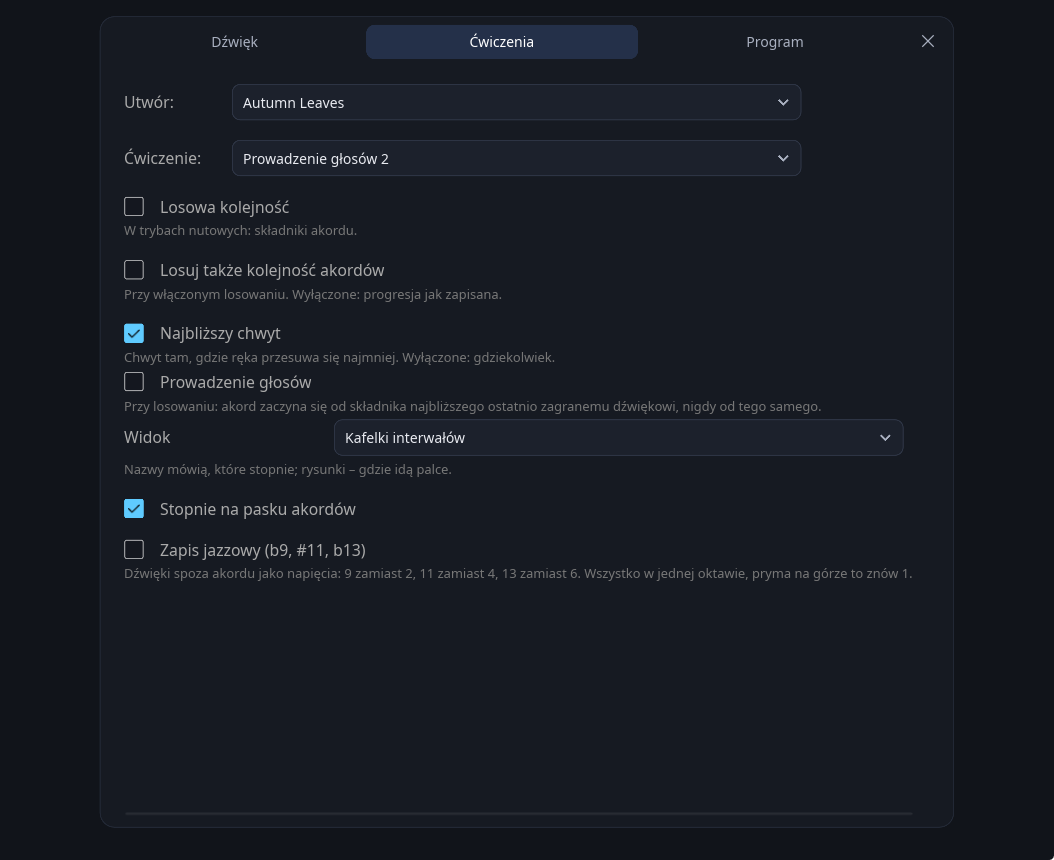
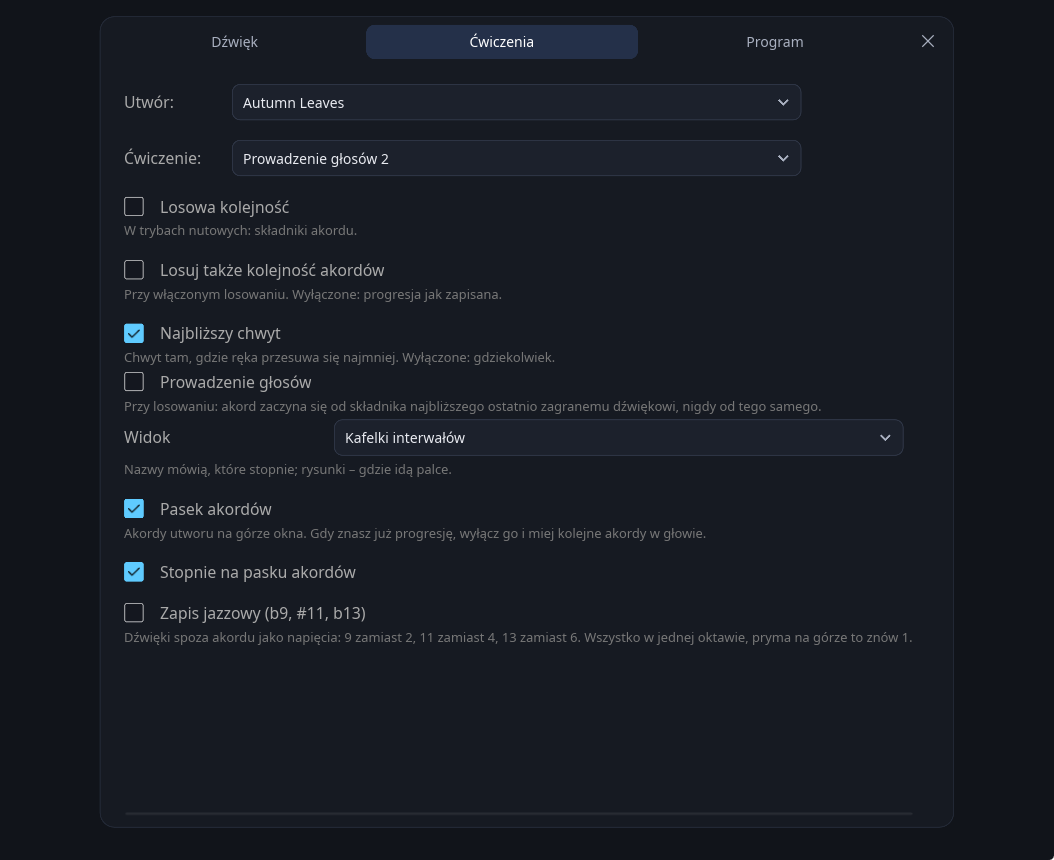
A switch for the chord strip, and a guide to playing without it
- the strip can go once a progression is known
- Practising intervals: thinking one and two chords ahead, on All the Things
- settings screenshots with the new row

diff --git a/src/main.rs b/src/main.rs
@@ -190,6 +190,7 @@ struct SettingsSnapshot {
     audio_channel: i32,
     jazz_notation: bool,
     chord_degrees: bool,
+    chord_strip: bool,
     formula_exercise: i32,
     formula_placement: i32,
     formula_notes: i32,
@@ -246,6 +247,7 @@ impl SettingsSnapshot {
             audio_channel: ui.get_audio_channel_index(),
             jazz_notation: ui.get_jazz_notation(),
             chord_degrees: ui.get_chord_degrees(),
+            chord_strip: ui.get_chord_strip(),
             formula_exercise: ui.get_formula_exercise(),
             formula_placement: ui.get_formula_placement(),
             formula_notes: ui.get_formula_notes(),
@@ -543,6 +545,7 @@ fn show_settings(ui: &AppWindow, app: &MyApp, cfg: &Settings, lang: Lang) {
     ui.set_show_shell_shapes(cfg.show_shell_shapes);
     ui.set_jazz_notation(cfg.jazz_notation);
     ui.set_chord_degrees(cfg.chord_degrees);
+    ui.set_chord_strip(cfg.chord_strip);
     ui.set_formula_exercise(cfg.formula_exercise as i32);
     ui.set_formula_placement(cfg.formula_placement as i32);
     ui.set_formula_notes(cfg.formula_notes as i32);
@@ -888,6 +891,8 @@ fn apply_language(ui: &AppWindow, lang: Lang, app: Option<&MyApp>) {
     g.set_jazz_names(t.jazz_names.into());
     g.set_jazz_names_hint(t.jazz_names_hint.into());
     g.set_chord_degrees(t.chord_degrees.into());
+    g.set_chord_strip(t.chord_strip.into());
+    g.set_chord_strip_hint(t.chord_strip_hint.into());
     g.set_chord_tones(t.chord_tones.into());
     g.set_fav_hint(t.fav_hint.into());
     g.set_fav_add(t.fav_add.into());

diff --git a/src/i18n.rs b/src/i18n.rs
@@ -219,6 +219,8 @@ pub struct Strings {
     pub jazz_names: &'static str,
     pub jazz_names_hint: &'static str,
     pub chord_degrees: &'static str,
+    pub chord_strip: &'static str,
+    pub chord_strip_hint: &'static str,
     pub chord_tones: &'static str,
     pub fav_name: &'static str,
     pub fav_pick: &'static str,
@@ -376,6 +378,8 @@ pub const EN: Strings = Strings {
     against_chord: "Relative to ",
     jazz_names: "Jazz notation (b9, #11, b13)",
     chord_degrees: "Degrees in the chord strip",
+    chord_strip: "Chord strip",
+    chord_strip_hint: "The chords of the tune at the top of the window. Once you know the progression, turn it off and keep the next chords in your head.",
     jazz_names_hint: "Notes outside the chord as tensions: 9 for 2, 11 for 4, 13 for 6. All within one octave, the root on top is 1 again.",
     chord_tones: "chord tones",
     fav_name: "name it",
@@ -535,6 +539,8 @@ pub const PL: Strings = Strings {
     against_chord: "Względem ",
     jazz_names: "Zapis jazzowy (b9, #11, b13)",
     chord_degrees: "Stopnie na pasku akordów",
+    chord_strip: "Pasek akordów",
+    chord_strip_hint: "Akordy utworu na górze okna. Gdy znasz już progresję, wyłącz go i miej kolejne akordy w głowie.",
     jazz_names_hint: "Dźwięki spoza akordu jako napięcia: 9 zamiast 2, 11 zamiast 4, 13 zamiast 6. Wszystko w jednej oktawie, pryma na górze to znów 1.",
     chord_tones: "dźwięków akordu",
     fav_name: "nazwij",

diff --git a/src/settings.rs b/src/settings.rs
@@ -96,6 +96,10 @@ pub struct Settings {
     /// strip.
     #[serde(default = "yes")]
     pub chord_degrees: bool,
+    /// The progression strip itself. Turned off once a progression is known:
+    /// the next chords are then kept in the head, which is the exercise.
+    #[serde(default = "yes")]
+    pub chord_strip: bool,
     /// Draw the shape thumbnails under the chord name in Chords mode. Was a
     /// UI property alone and reset to on at every launch.
     #[serde(default = "yes")]
@@ -358,6 +362,7 @@ impl Default for Settings {
             gates: HashMap::new(),
             jazz_notation: false,
             chord_degrees: true,
+            chord_strip: true,
             scale_repeat_root: false,
             scale_direction: 0,
             scale_from: 0,

diff --git a/src/controls.rs b/src/controls.rs
@@ -82,6 +82,7 @@ fn connect_switches(ui: &AppWindow, cfg: &Rc<RefCell<Settings>>) {
     ui.on_show_diagrams_changed(saving(cfg, |s, on| s.show_diagrams = on));
     ui.on_jazz_notation_changed(saving(cfg, |s, on| s.jazz_notation = on));
     ui.on_chord_degrees_changed(saving(cfg, |s, on| s.chord_degrees = on));
+    ui.on_chord_strip_changed(saving(cfg, |s, on| s.chord_strip = on));
     ui.on_formula_exercise_changed(saving(cfg, |s, v: i32| s.formula_exercise = v.clamp(0, 2) as u8));
     ui.on_formula_placement_changed(saving(cfg, |s, v: i32| s.formula_placement = v.clamp(0, 3) as u8));
     ui.on_formula_notes_changed(saving(cfg, |s, n: i32| s.formula_notes = n.clamp(1, 12) as usize));

diff --git a/docs/intervals-practice_pl.md b/docs/intervals-practice_pl.md
@@ -202,6 +202,38 @@ w części *Lines in order*.
 | **Losuj także kolejność akordów** | Miesza też kolejność akordów w piosence |
 | **Prowadzenie głosów** | Przy mieszaniu zaczyna każdy akord od dźwięku najbliższego temu, który zagrałeś ostatnio |
 | **Widok** | Pokazuje numery, chwyt na gryfie albo kafelki z nazwą dźwięku pod każdym numerem |
+| **Pasek akordów** | Pokazuje akordy piosenki na górze okna. Wyłączony: trzymasz je w głowie |
+
+## Gra bez paska akordów
+
+Pasek na górze okna pokazuje akord, na którym jesteś, i te, które nadchodzą. Na początku to pomaga:
+oswajasz się z akordami piosenki. Ale kto je odczytuje, ten zawsze jest chwilę spóźniony. Następny
+akord spada na ciebie jak niespodzianka i dopiero wtedy szukasz jego dźwięków.
+
+Celem jest więc gra z głową o krok do przodu. Kiedy grasz na jednym akordzie, myślisz już
+o następnym i wiesz, jakie dźwięki tam zagrasz, zanim do niego dojdziesz.
+
+Weźmy **Dwa dźwięki: 3 5** w All the Things You Are. Początek wygląda tak:
+
+| akord | Fm7 | B♭m7 | E♭7 | A♭maj7 |
+|---|---|---|---|---|
+| `3 5` | A♭ C | D♭ F | G B♭ | C E♭ |
+
+Kiedy palce grają A♭ i C na Fm7, głowa jest już na B♭m7: D♭ i F. Gdy tam dojdziesz, przechodzi dalej,
+na E♭7: G i B♭. Nic cię nie zaskakuje.
+
+Najlepiej jest zaplanować dźwięki **dwóch** kolejnych akordów. Wtedy to, co musisz zagrać, przestaje
+zajmować twoją uwagę i zostaje ci czas na improwizację: na wybór miejsca na gryfie, w którym te
+dźwięki zagrasz.
+
+Jak do tego dojść:
+
+1. Graj z włączonym paskiem, aż akordy piosenki staną się znajome.
+2. Wyłącz **Pasek akordów** w Ustawieniach, w zakładce Ćwiczenia. Na ekranie zostaje tylko bieżący
+   akord.
+3. Zanim akord się zmieni, nazwij w myślach następny i jego dźwięki. Idź powoli: jeśli się
+   pogubisz, włącz pasek na chwilę.
+4. Kiedy następny akord przychodzi bez trudu, spróbuj myśleć o dwa akordy do przodu.
 
 ## Od czego zacząć
 
@@ -212,6 +244,7 @@ w części *Lines in order*.
 3. **Struktura 1–5** i **5–9** z włączonym losowaniem.
 4. **Prowadzenie głosów** w piosence, w której jest II–V–I, na przykład w Autumn Leaves.
 5. **Skala akordu** od `3` i od `7`, a na końcu **skala z dźwiękiem przejściowym**.
+6. Dowolne z tych ćwiczeń jeszcze raz, [bez paska akordów](#gra-bez-paska-akordów).
 
 ---
 

diff --git a/docs/intervals-practice.md b/docs/intervals-practice.md
@@ -201,6 +201,39 @@ when you play about two notes a second or slower. The details are in
 | **Shuffle the chords as well** | Mixes up the order of the chords in the song too |
 | **Voice leading** | With the shuffle on, starts every chord on the note nearest the one you played last |
 | **View** | Shows the numbers, the grip on the neck, or tiles with the note name under every number |
+| **Chord strip** | Shows the chords of the song at the top of the window. Off: you keep them in your head |
+
+## Playing without the chord strip
+
+The strip at the top of the window shows the chord you are on and the ones coming next. At first
+that helps: you get used to the song's chords. But a player who reads them is always a moment
+late. The next chord arrives as a surprise, and only then do you look for its notes.
+
+So the goal is to play with your head one step ahead. While you play over one chord, you are
+already thinking of the next one, and you know which notes you will play there before you get
+there.
+
+Take **Two tones: 3 5** in All the Things You Are. It starts like this:
+
+| chord | Fm7 | B♭m7 | E♭7 | A♭maj7 |
+|---|---|---|---|---|
+| `3 5` | A♭ C | D♭ F | G B♭ | C E♭ |
+
+While your fingers play A♭ and C over Fm7, your head is already on B♭m7: D♭ and F. When you get
+there, it moves on to E♭7: G and B♭. Nothing catches you by surprise.
+
+Best of all is to plan the notes of the next **two** chords. Then the notes you have to play stop
+taking up your attention, and you have time left to improvise: to choose where on the neck you
+play them.
+
+How to get there:
+
+1. Play with the strip on until the song's chords feel familiar.
+2. Turn **Chord strip** off in Settings, on the Practice tab. Only the current chord is left on
+   screen.
+3. Before each chord changes, name the next one to yourself, and its notes. Go slowly: if you get
+   lost, turn the strip back on for a while.
+4. When the next chord comes easily, try to think two chords ahead.
 
 ## Where to start
 
@@ -210,6 +243,7 @@ when you play about two notes a second or slower. The details are in
 3. **Structure 1–5** and **5–9** with the shuffle on.
 4. **Voice leading** in a song with a II–V–I in it, like Autumn Leaves.
 5. **Chord scale** from `3` and from `7`, and last the **Passing-note scale**.
+6. Any of these again [without the chord strip](#playing-without-the-chord-strip).
 
 ---
 

diff --git a/docs/settings_pl.md b/docs/settings_pl.md
@@ -67,6 +67,7 @@ zakładka, a trener gryfu, który nie ma własnych ustawień, nie pokazuje jej w
 | **Początek** | Skale: przebieg zaczyna się od 1, 3, 5 albo 7 skali, albo od dźwięku losowanego na każdy przebieg, i idzie przez oktawę do tego samego dźwięku. Przy **Od E do e** przebieg zaczyna się od tego stopnia pod ręką losowaną na każdy przebieg, na skrajnej strunie, która go ma |
 | **Ruch tonacji** | Skale, przy wyłączonym losowaniu: po każdym przebiegu tonacja zostaje, przesuwa się o półton w górę lub w dół albo idzie kołem kwintowym lub kwartowym |
 | **Zapis jazzowy** | Skale, skale akordowe w Interwałach i Formuły: to, co leży między składnikami akordu, nazywane jest napięciem nad nim — `b9` zamiast `b2`, `11` zamiast `4`, `13` zamiast `6` — więc frygijska dominantowa to `1 b9 3 4 5 b13 b7`. Zwykła `4` nad tercją wielką zostaje `4`: leży półton nad tercją, więc się przez nią przechodzi, a nie zatrzymuje. Nic nie jest liczone ponad oktawę: pryma na górze to znów `1`, a wysokość widać na gryfie. Domyślnie wyłączony; listy ćwiczeń zawsze mają zwykłe stopnie |
+| **Pasek akordów** | Akordy, Interwały i Arpeggia po zmianach: akordy utworu na górze okna, bieżący i te wokół niego. Domyślnie włączony. Pomaga oswoić się z progresją; gdy ją znasz, wyłącz go i miej kolejne akordy w głowie — zobacz [Ćwiczenie interwałów](intervals-practice_pl.md#gra-bez-paska-akordów) |
 | **Stopnie na pasku akordów** | Akordy, Interwały i Arpeggia po zmianach: każdy akord na pasku pokazuje też swój stopień w utworze — `ii V I`. Wielka litera nad tercją wielką, mała nad małą. Sama cyfra: alteracje i rodzaj septymy są w nazwie akordu nad nią, więc w g-moll `F7` to `VII`. Stopnie liczone są od toniki utworu, więc w każdej tonacji są takie same |
 | **Prowadzenie głosów** | Interwały, przy włączonym losowaniu: każdy akord zaczyna się od składnika najbliższego ostatnio zagranemu dźwiękowi, nigdy od tego samego, więc wylosowane ćwiczenie dalej czyta się jak linia |
 | **Pokazuj schematy akordów** | Miniatury diagramów pod nazwą akordu w trybie Akordy |

diff --git a/docs/settings.md b/docs/settings.md
@@ -67,6 +67,7 @@ fretboard trainer, which has no settings of its own, does not show it at all:
 | **Start on** | Scales: the run starts on the 1, 3, 5 or 7 of the scale, or on a tone drawn for each pass, and goes through the octave to the same tone again. With **From E to e** the run starts on that degree under a hand drawn for every pass, on the outer string that has it |
 | **Next key** | Scales, with the shuffle off: after each pass the key stays, moves a semitone up or down, or goes round the cycle of fifths or fourths |
 | **Jazz notation** | Scales, the chord scales of Intervals and Formulas: what falls between the chord's tones is named as a tension above it — `b9` for `b2`, `11` for `4`, `13` for `6` — so the Phrygian dominant reads `1 b9 3 4 5 b13 b7`. A plain `4` over a major third stays `4`: a semitone above the third, it is a note to pass over, not to hold. Nothing is counted past the octave: the root on top is `1` again, and how high is on the neck. Off by default; the exercise lists keep their plain degrees either way |
+| **Chord strip** | Chords, Intervals and Arpeggios over the changes: the chords of the tune at the top of the window, the current one and those around it. On by default. It helps while you get to know a progression; once you do, turn it off and keep the next chords in your head — see [Practising intervals](intervals-practice.md#playing-without-the-chord-strip) |
 | **Degrees in the chord strip** | Chords, Intervals and Arpeggios over the changes: each chord in the strip also shows its degree in the tune — `ii V I`. Upper case over a major third, lower over a minor one. Just the numeral: accidentals and the kind of seventh are in the chord's name above it, so in G minor an `F7` is `VII`. The degrees are counted from the tune's home, so they stay the same in every key |
 | **Voice leading** | Intervals, with the shuffle on: each chord starts on its tone nearest the last one played, never on the same note, so a shuffled exercise still reads as a line |
 | **Show chord shapes** | The diagram thumbnails under the chord name in Chords mode |
